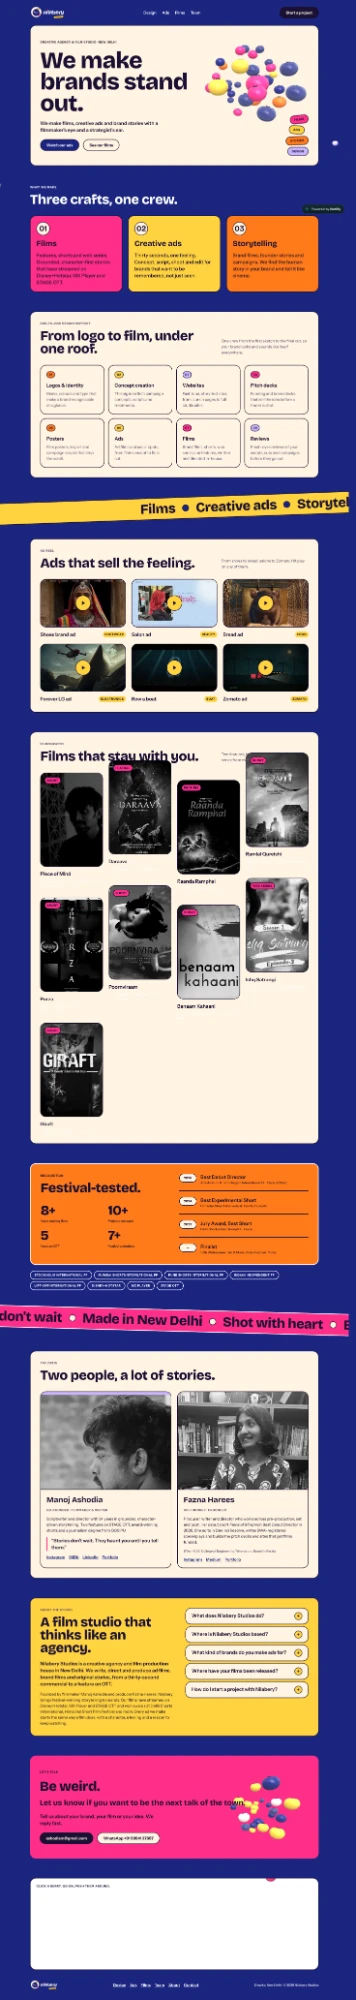
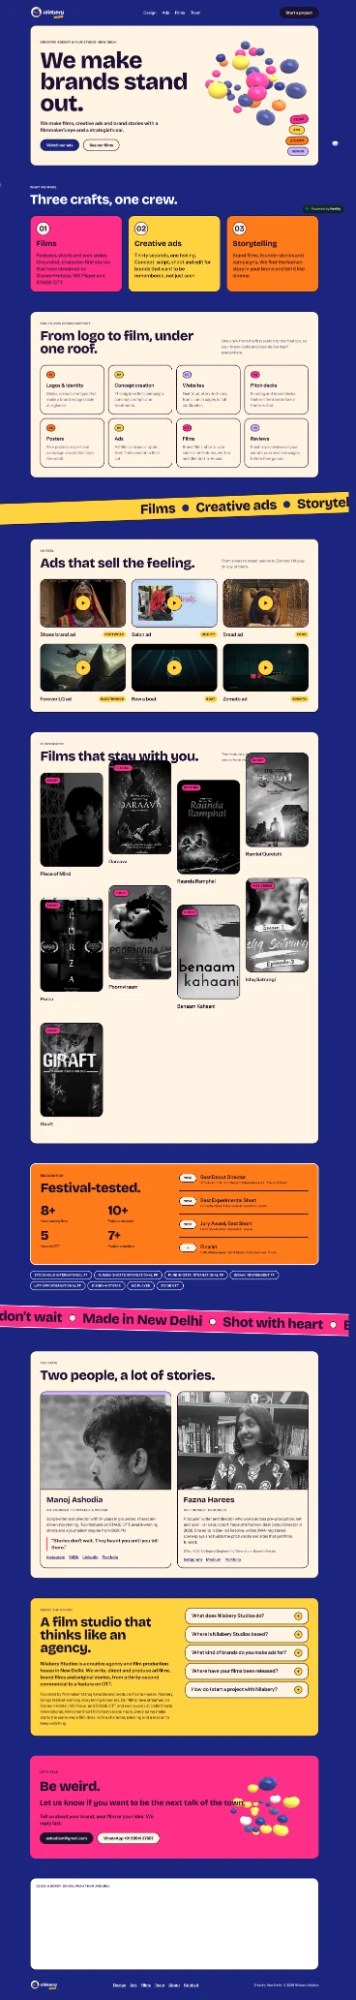
nilabery: add Here's what I designed after Claude's version
Claude-Session: https://claude.ai/code/session_01CWBhB2afCXg1xY56Z8eLAr

Changed region(s): [[0.5871, 0.0, 0.8652, 0.062], [0.6489, 0.868, 0.8343, 0.93]]

diff --git a/nilabery.html b/nilabery.html
@@ -124,7 +124,14 @@
     <section class="nb-section cs-container">
       <h2 class="nb-heading">Here’s what Claude came up with</h2>
       <figure class="nb-output-shot">
-        <img src="assets/nilabery/claude-v1-full.webp" alt="The full Nilabery Studios homepage Claude generated, from the hero through services, ads, films, festival awards, team, FAQ and contact sections" loading="lazy" />
+        <img src="assets/nilabery/claude-v1-full.webp" width="356" height="2000" alt="The full Nilabery Studios homepage Claude generated, from the hero through services, ads, films, festival awards, team, FAQ and contact sections" loading="lazy" />
+      </figure>
+    </section>
+
+    <section class="nb-section cs-container">
+      <h2 class="nb-heading">Here’s what I designed</h2>
+      <figure class="nb-output-shot">
+        <img src="assets/nilabery/designed-full.webp" width="332" height="2000" alt="The full Nilabery Studios homepage as I redesigned it, from the hero through services, ads, films, festival awards, the studio story, team, FAQ and contact sections" loading="lazy" />
       </figure>
     </section>
   </main>

diff --git a/nilabery.css b/nilabery.css
@@ -209,8 +209,8 @@
   .nb-cards { grid-template-columns: repeat(3, 1fr); }
 }
 
-/* Claude's first version: the title, then the full-length screenshot
-   centred below it, shown at its own width. */
+/* Claude's version and my redesign: a title, then the full-length
+   screenshot centred below it, shown at its own width. */
 .nb-heading {
   font-family: var(--display);
   font-size: var(--fs-h2);
@@ -221,12 +221,14 @@
 }
 
 .nb-output-shot {
-  max-width: 356px;
+  width: fit-content;
+  max-width: 100%;
   margin: calc(48 * var(--u)) auto 0;
 }
 
 .nb-output-shot img {
-  width: 100%;
+  max-width: 100%;
+  height: auto;
   border: 1px solid var(--line);
   border-radius: 12px;
   box-shadow: 0 24px 50px rgba(26, 16, 51, 0.12);
